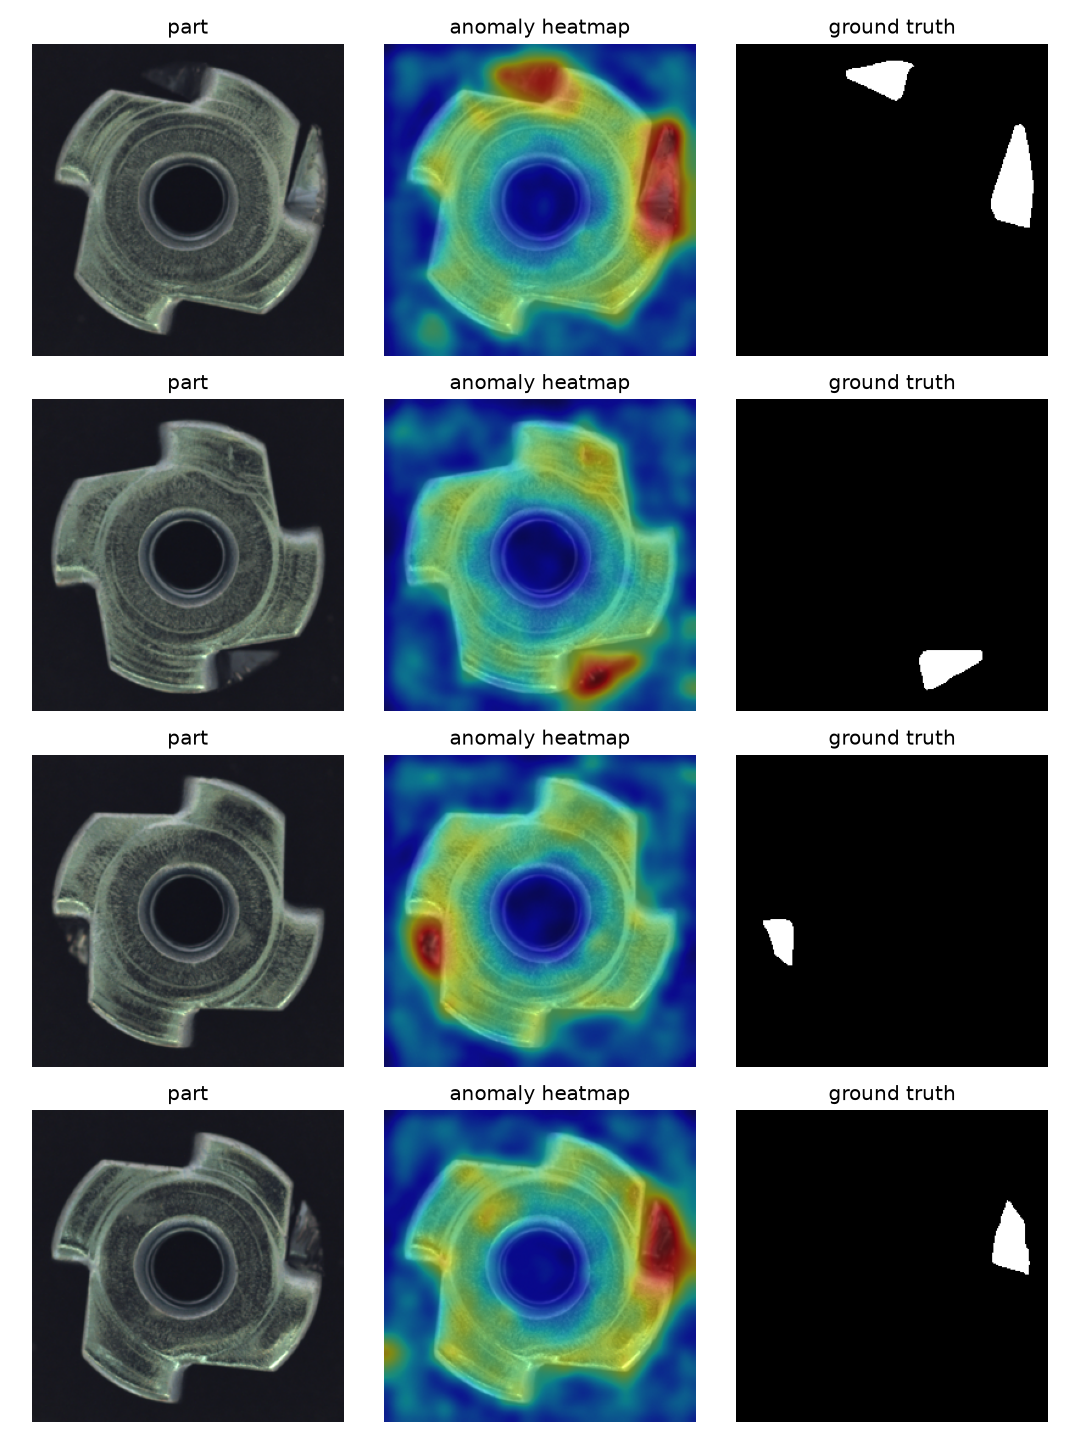
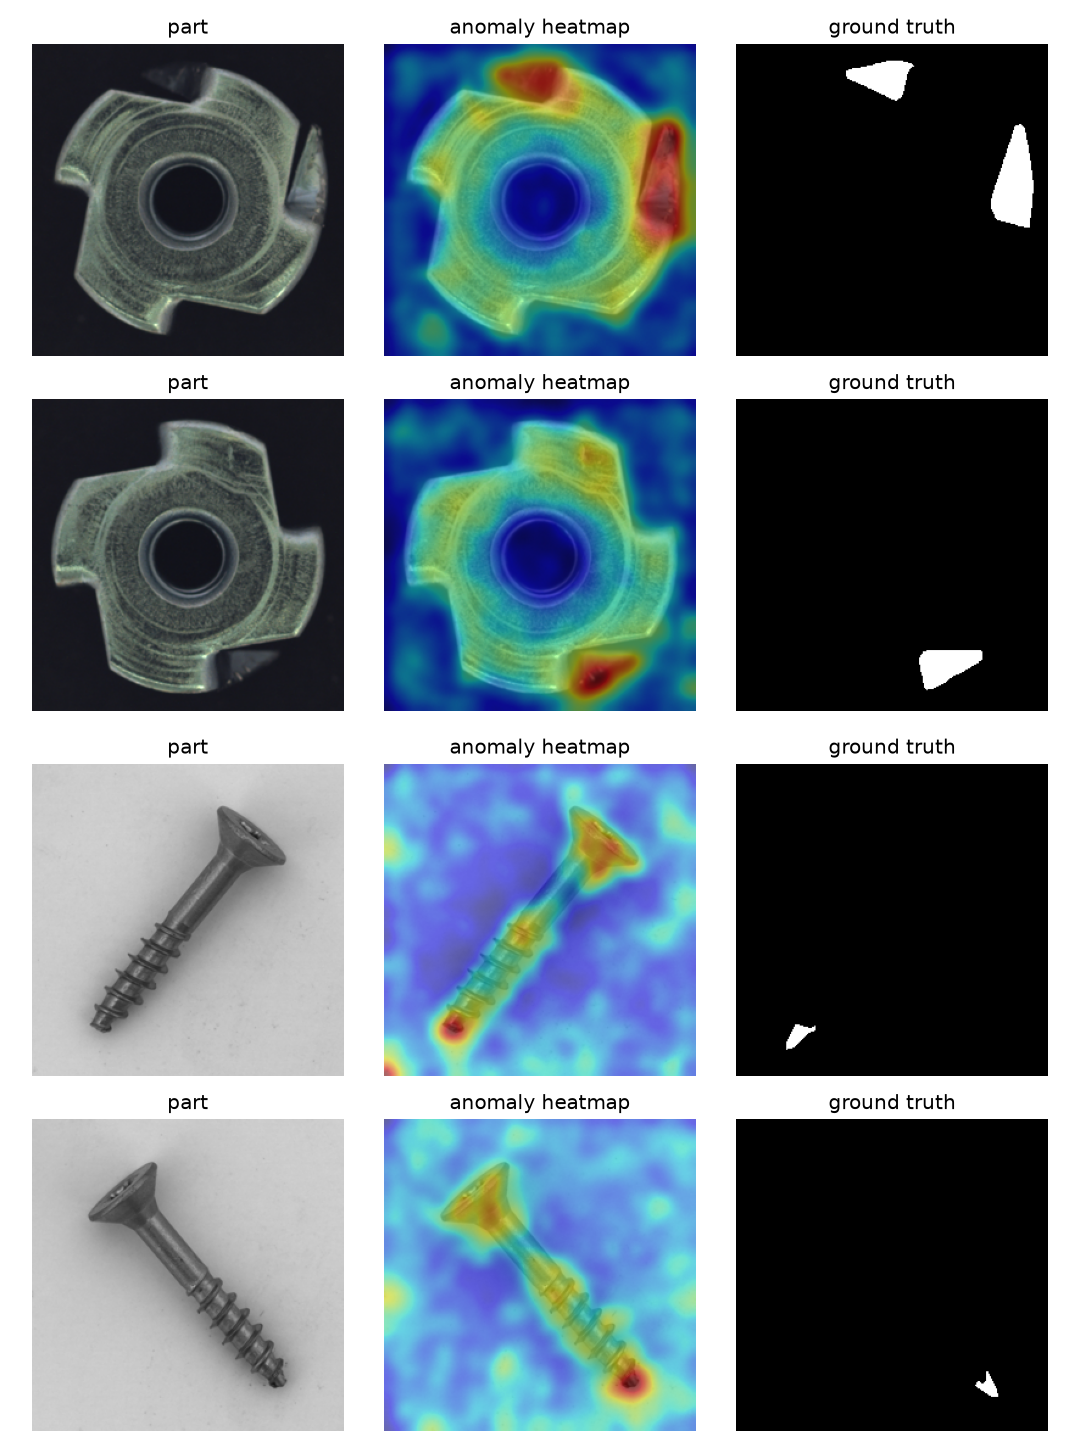
docs: troca as duas linhas inferiores do painel de heatmap por exemplos de screw porque o painel so mostrava metal_nut para dar visibilidade as duas categorias do projeto

diff --git a/README.md b/README.md
@@ -19,10 +19,10 @@
 </p>
 
 <p align="center">
-  <sub>Metal nuts with real defects (left), the model's anomaly heatmap (middle), and
-  the ground-truth mask (right). The heat lands on the defect — from a backbone that
-  was <strong>never shown a single defect</strong>, scoring by distance to remembered
-  good patches.</sub>
+  <sub>Metal nuts and screws with real defects (left), the model's anomaly heatmap
+  (middle), and the ground-truth mask (right). The heat lands on the defect — from a
+  backbone that was <strong>never shown a single defect</strong>, scoring by distance
+  to remembered good patches.</sub>
 </p>
 
 ---